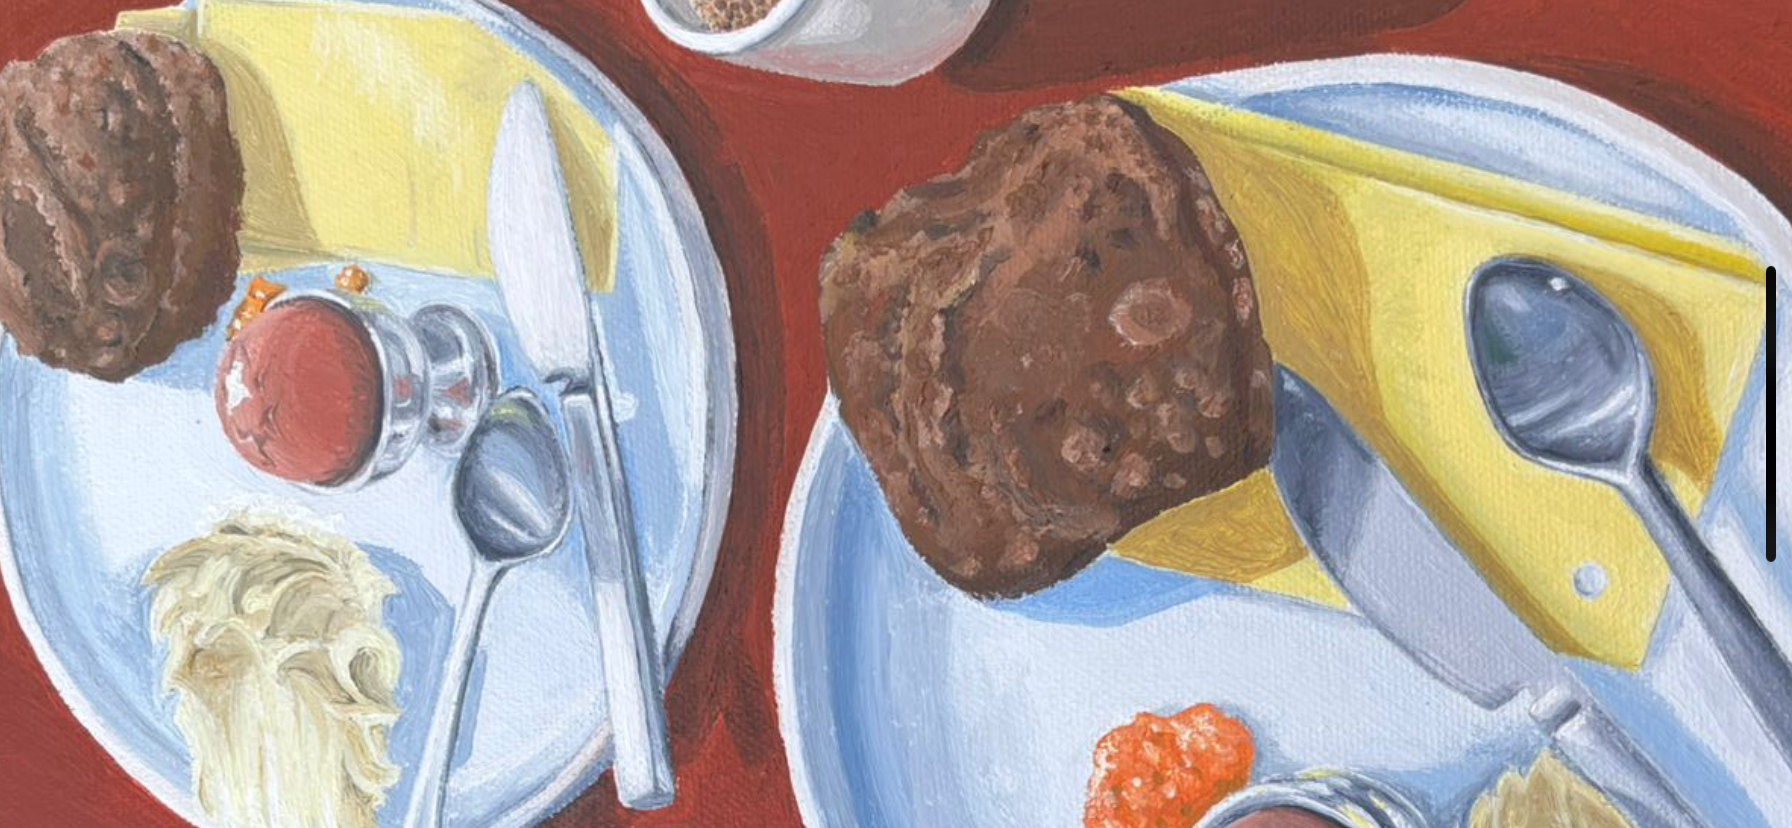
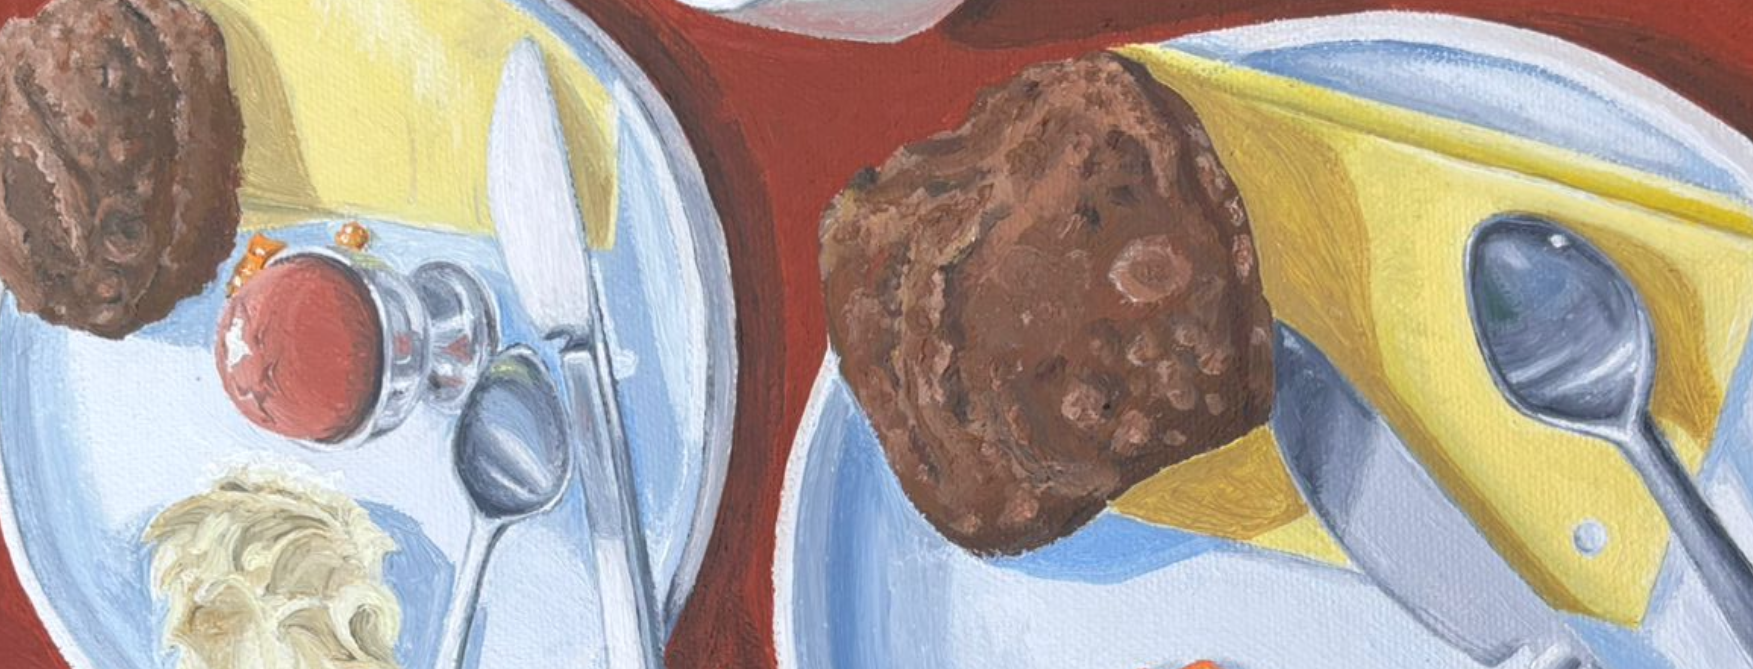
Add files via upload

diff --git a/tyyli.css b/tyyli.css
@@ -4,11 +4,19 @@ body{
 
 h1{
     color: black;
+    font-size: 60px;
     
 }
 
+h2{
+    color: black;
+    font-size: 35px;
+
+}
+
 p{
-    color: black
+    color: black;
+    font-size: 20px
 }
 
 /*
@@ -36,7 +44,7 @@ ul.breadcrumb {
 
 ul.breadcrumb li {
     display: inline;
-    font-size: 16px;
+    font-size: 20px;
 }
 
 ul.breadcrumb li+li:before {
@@ -57,33 +65,55 @@ ul.breadcrumb li a:hover {
 
 
 .teksti {
-    width: 90%;
+    width: 70%;
     margin: auto;
     font-size: 16px;
 }
 
 .footer {
-    width: 90%;
+    width: 70%;
     margin: auto;
     margin-top: 20px;
     margin-bottom: 40px;
 }
 
 .linkki1 {
-    font-size: 14px;
+    font-size: 20px;
     text-align: center;
     color: black;
 
 }
 
 .linkki2 {
-    font-size: 14px;
+    font-size: 20px;
     text-align: center;
     color: black;
 
 }
 
 .teksti img {
+    width: 100%;
+    height: 100%;
+
+}
+
+.kuva img {
+    width: 100%;
+
+}
+
+@media only screen and (min-width: 700px) {
+}
+  .kuva img {
+    width: 100%;
+
+}
+}
+
+@media only screen and (min-width: 1025px) {
+}
+  .kuva img {
     width: 90%;
 
+}
 }

diff --git a/index.html b/index.html
@@ -20,18 +20,27 @@
         <li><a href="">Taideteokset</a></li>
     </ul>
 
+    
     <h1>Taideteokset</h1>
 
-    <img src="" alt="">
+    <div class="kuva">
+    <img src="taideteos.png" alt="Taideteos.">
+    </div>
 
     <p>Kööpenhaminalainen aamiainen, 2024</p>
     <p>800 euroa</p>
 
-    <img src="" alt="">
+    <div class="kuva">
+    <img src="taideteos.png" alt="Taideteos.">
+    </div>
 
     <p>Tofutar, 2024</p>
     <p>450 euroa</p>
     </div>
+
+    <br>
+    <br>
+    <br>
 
     <div class="footer">
         <a class="linkki1" href="https://emppunen.github.io/nayttelyt.html">Näyttelyt</a>

diff --git a/ota-yhteytta.html b/ota-yhteytta.html
@@ -28,6 +28,10 @@
     <a href="mailto:taiteilija@taiteilija.fi">taiteilija@taiteilija.fi</a>
     </div>
 
+    <br>
+    <br>
+    <br>
+
     <div class="footer">
         <a class="linkki1" href="https://emppunen.github.io/index.html">Taideteokset</a>
 

diff --git a/nayttelyt.html b/nayttelyt.html
@@ -30,6 +30,11 @@
     <a href="http://www.galleriahuuto.fi/">www.galleriahuuto.fi</a>
     </div>
 
+
+    <br>
+    <br>
+    <br>
+
     <div class="footer">
         <a class="linkki1" href="https://emppunen.github.io/index.html">Taideteokset</a>
 
